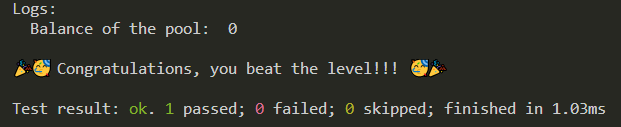
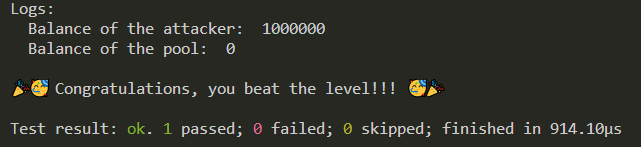
cleanup and start challenge4

Changed region(s): [[0.0, 0.4488, 0.7343, 0.6614], [0.0, 0.8031, 0.9791, 0.9449], [0.0, 0.0236, 0.5201, 0.378]]

diff --git a/README.md b/README.md
@@ -70,3 +70,25 @@
     - The `approve` function thus gets executed, approving our hack contract as the spender to be able to spend all the pools tokens. We can then `transferFrom` all of the pools tokens from the pool to us.
 
 <img src="success3.png" alt="winner">
+
+
+## #4 Side Entrance
+- Goal: Pool with 1000 ETH allows for deposits and withdraw of ETH with no fee flash loans. Starting with 1 ETH in balance, pass the challenge by taking all ETH from the pool.
+- Resources: https://github.com/zach030/damnvulnerabledefi-foundry
+- Topics: Flashloans (ERC-3156), ????
+- Methodology:
+
+<img src="success4.png" alt="winner">
+
+
+
+
+"challenge 4 and cleanup"
+
+--> Flash loan 1,000 ETH to ourselves
+--> Deposit that 1,000 ETH.
+--> Withdraw that 1,000 ETH.
+
+
+
+--> No fees. We are going to transfer 1000 ETH to ourself using a flash loan. Then inside that flash loan we are going to withdraw 1000 ETH.
